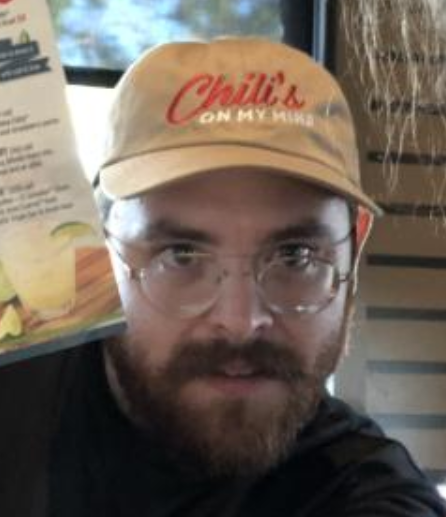
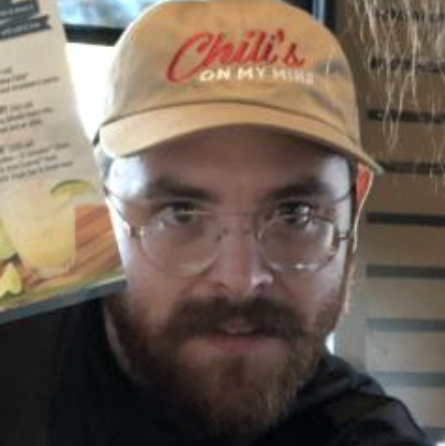
added css to about page, we are 4 for 4 on the creator images

diff --git a/src/Components/About/About.js b/src/Components/About/About.js
@@ -8,13 +8,14 @@ import EmilyGit from '../../assets/EmilyGit.png';
 import Tanner from '../../assets/tanner.png';
 import TannerLinked from '../../assets/TannerLinked.png';
 import TannerGit from '../../assets/TannerGit.png';
+import Thomas from '../../assets/thomas2.png';
 import ThomasLinked from '../../assets/ThomasLinked.png';
 import ThomasGit from '../../assets/ThomasGit.png';
 import './About.css';
 
 export default function About() {
   return (
-    <div className="main-container">
+    <div className="about-container">
       <div>
         <h1 className="about-title">MerchOn</h1>
       
@@ -23,59 +24,82 @@ export default function About() {
         </div>
         <div className="creators">
           <div className="connor">
-            <img src= { Connor }></img>
+            <img className="con-img" src= { Connor }></img>
             <h3>Connor McCue</h3>
             <p>Software Engineer</p>
-            <p>LinkedIn</p>
+            <div className="socials">
+              <div className="con-linked">
+                <p>LinkedIn</p>
+              </div>
+              <div className="con-git">
+                <p>GitHub</p>
+              </div>
+            </div>
             <a href="https://www.linkedin.com/in/connor-mccue/" target="_blank" rel="noreferrer">
-              <img src={ ConnorLinked }></img>
+              <img className="qr" src={ ConnorLinked }></img>
             </a>
-            <p>GitHub</p>
             <a href="https://github.com/csmccue" target="_blank" rel="noreferrer">
-              <img src={ ConnorGit }></img>
+              <img className="qr" src={ ConnorGit }></img>
             </a>
           </div>
 
           <div className="emily">
-            <img src= { Emily }></img>
+            <img className="em-img" src= { Emily }></img>
             <h3>Emily Pisaygnane</h3>
             <p>Software Engineer</p>
-            <p>LinkedIn</p>
+            <div className="socials">
+              <div className="con-linked">
+                <p>LinkedIn</p>
+              </div>
+              <div className="em-git">
+                <p>GitHub</p>
+              </div>
+            </div>
             <a href="https://www.linkedin.com/in/emily-pisaygnane/" target="_blank" rel="noreferrer">
-              <img src={ EmilyLinked }></img>
+              <img className="qr" src={ EmilyLinked }></img>
             </a>
-            <p>GitHub</p>
             <a href="https://github.com/emilypisaygnane" target="_blank" rel="noreferrer">
-              <img src={ EmilyGit }></img>
+              <img className="qr" src={ EmilyGit }></img>
             </a>
           </div>
 
           <div className="tanner">
-            <img src= { Tanner }></img>
+            <img className="tan-img" src= { Tanner }></img>
             <h3>Tanner Richards</h3>
             <p>Software Developer</p>
-            <div className="t-richy">
-              <p>LinkedIn</p>
-              <a href="https://www.linkedin.com/in/tannerrichards/" target="_blank" rel="noreferrer">
-                <img src={ TannerLinked }></img>
-              </a>
-              <p>GitHub</p>
-              <a href="https://github.com/TannerRichards990" target="_blank" rel="noreferrer">
-                <img src={ TannerGit }></img>
-              </a>
+            <div className="socials">
+              <div className="tan-linked">
+                <p>LinkedIn</p>
+              </div>
+              <div className="tan-git">
+                <p>GitHub</p>
+              </div>
             </div>
+            <a href="https://www.linkedin.com/in/tannerrichards/" target="_blank" rel="noreferrer">
+              <img className="qr" src={ TannerLinked }></img>
+            </a>
+            <a href="https://github.com/TannerRichards990" target="_blank" rel="noreferrer">
+              <img className="qr" src={ TannerGit }></img>
+            </a>
           </div>
 
           <div className="thomas">
+            <img className="tom-img" src={ Thomas }></img>
             <h3>Thomas P. Jenkins</h3>
             <p>Software Developer</p>
-            <p>LinkedIn</p>
+            <div className="socials">
+              <div className="tom-linked">
+                <p>LinkedIn</p>
+              </div>
+              <div className="tom-git">
+                <p>GitHub</p>
+              </div>
+            </div>
             <a href="https://www.linkedin.com/in/thomas-p-jenkins/" target="_blank" rel="noreferrer">
-              <img src={ ThomasLinked }></img>
+              <img className="qr" src={ ThomasLinked }></img>
             </a>
-            <p>GitHub</p>
             <a href="https://github.com/Thomas-Jenkins" target="_blank" rel="noreferrer">
-              <img src={ ThomasGit }></img>
+              <img className="qr" src={ ThomasGit }></img>
             </a>
           </div>
         </div>

diff --git a/src/Components/About/About.css b/src/Components/About/About.css
@@ -2,7 +2,7 @@
 
 /* font-family: 'Cormorant Garamond', serif; */
 
-.main-container {
+.about-container {
     height: 100vh;
     width: 100vw;
 }
@@ -14,7 +14,7 @@
     height: 10%;
     width: 100vw;
     position: relative;
-    bottom: 60px;
+    bottom: 90px;
 }
 
 .about-text {
@@ -22,7 +22,7 @@
     height: 10%;
     width: 100vw;
     position: relative;
-    bottom: 30px;
+    bottom: 6em;
 }
 
 .creators {
@@ -31,23 +31,29 @@
     grid-template-columns: 1fr 1fr 1fr 1fr;
     height: 80%;
     width: 100vw;
+    position: relative;
+    bottom: 2.5em;
+    right: 1em;
 }
 
-img {
+.tan-img, .con-img, .em-img, .tom-img {
+    width: 250px;
+}
+
+.qr {
     width: 100px;
+    margin: 10px 20px;
 }
 
-div.tanner {
-    justify-content: center;
-    margin: auto;
-}
-
-.t-richy {
+.socials {
     display: flex;
     flex-direction: row;
 }
 
-.t-richy p {
-    margin-left: 10px;
-    padding: 10px;
+.tan-linked, .con-linked, .em-linked, .tom-linked {
+    margin-left: 9em;
+}
+
+.tan-git, .con-git, .em-git, .tom-git {
+    margin-left: 5.65em;
 }

diff --git a/src/Components/Storefront/BusinessCard.css b/src/Components/Storefront/BusinessCard.css
@@ -37,6 +37,7 @@
   height: 50px;
   color: #fff;
   background: #111;
+  position: relative;
   cursor: pointer;
   z-index: 0;
   border-radius: 10px;
